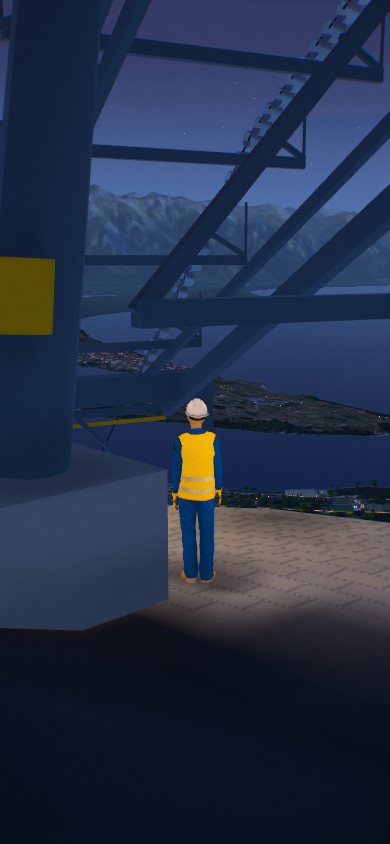
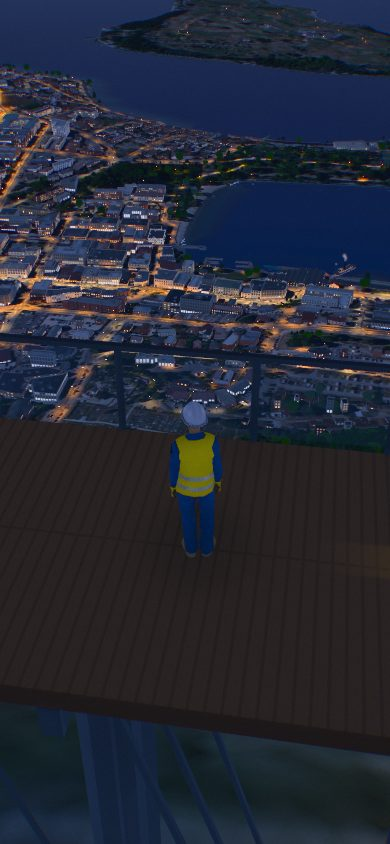
Stills for the deck and its lift, the Earnslaw's crossing and Walter Peak, and the alpine fixes
Desktop and phone, day, dusk and night, from tools/game_shot.js and tools/reef_shot.js on llvmpipe; the alpine fixes before and after.

diff --git a/docs/cities/queenstown.md b/docs/cities/queenstown.md
@@ -18,7 +18,7 @@
 | **The Skyline Gondola and its towers** | **The Earnslaw (Blender)** |
 | ![](../images/queenstown/gondola.jpg) | ![](../images/vehicles/ferry_steamer.jpg) |
 
-Phone (390 × 844), from the game's start on the luge track under the gondola's big portal: day, dusk, night.
+Phone (390 × 844), from the game's start on the Skyline deck: day, dusk, night.
 
 | Day | Dusk | Night |
 |---|---|---|
@@ -63,6 +63,12 @@ Games looked at for the arrival, for their design only: Microsoft Flight Simulat
 approach into Queenstown sets the town in its mountains. The vista points of open-world games such
 as Assassin's Creed and Ghost of Tsushima start the player where the whole map can be read.
 Nothing was taken from either but that idea.
+
+| The deck, day | Dusk | Night |
+|---|---|---|
+| ![](../images/queenstown/deck-day.jpg) | ![](../images/queenstown/deck-dusk.jpg) | ![](../images/queenstown/deck-night.jpg) |
+| **The glass lift from the luge track, day** | **Dusk** | **Night** |
+| ![](../images/queenstown/lift-day.jpg) | ![](../images/queenstown/lift-dusk.jpg) | ![](../images/queenstown/lift-night.jpg) |
 
 ## 2. The data
 
@@ -253,6 +259,17 @@ about 45 minutes each way (RealNZ). The wharf is 13 km from the town, well past 
   oriented rectangle. The roofs' colours are the photograph's; the walls' colour and the heights are judged
   (the homestead's eaves at 3.2 m and ridge at 7 m), as no survey covers them.
 - **The walk.** Callum's lake quest sails there, walks up to the Colonel's Homestead and sails back.
+
+| The crossing at dusk | At night | Walter Peak at night |
+|---|---|---|
+| ![](../images/queenstown/earnslaw-dusk.jpg) | ![](../images/queenstown/earnslaw-night.jpg) | ![](../images/queenstown/walter-night.jpg) |
+
+Phone (390 × 844): the crossing and Walter Peak, day, dusk and night.
+
+| | Day | Dusk | Night |
+|---|---|---|---|
+| The crossing | ![](../images/queenstown/phone-earnslaw-day.jpg) | ![](../images/queenstown/phone-earnslaw-dusk.jpg) | ![](../images/queenstown/phone-earnslaw-night.jpg) |
+| Walter Peak | ![](../images/queenstown/phone-walter-day.jpg) | ![](../images/queenstown/phone-walter-dusk.jpg) | ![](../images/queenstown/phone-walter-night.jpg) |
 
 ## 4. Queenstown on Foot
 

diff --git a/docs/cities/lake-pukaki.md b/docs/cities/lake-pukaki.md
@@ -209,6 +209,12 @@ filling the frame and cumulus building on the Divide.
 - a daylight white balance, as a landscape photographer sets one: the overall cast of sun and sky together is taken out
   of the land (a warm sun and a blue sky left the tussock sage). It fades out toward the golden hour, whose warmth stays.
 
+| The scene's sun light in a hill's shadow at 19:50, before | After |
+|---|---|
+| ![](../images/lake-pukaki/shadow-before.jpg) | ![](../images/lake-pukaki/shadow-after.jpg) |
+| **Facing a low sun at the visitor centre, before** | **After: the verge's tussock and lupins lit through** |
+| ![](../images/lake-pukaki/tussock-before.jpg) | ![](../images/lake-pukaki/tussock-after.jpg) |
+
 **The ground's colour** (`web/reef/alpine/terrain.js`):
 - the imagery is printed for a screen, so pale ground comes out near a linear 0.45 where dry tussock and gravel reflect
   0.25 to 0.3. An albedo knee (`ALB_KNEE`) eases brightness down and keeps the hue; snow is set on its own;

diff --git a/docs/cities/lake-tekapo.md b/docs/cities/lake-tekapo.md
@@ -139,6 +139,10 @@ detail_township.webp`):
   model and material, in traffic.js's colours. About seven stalls in ten have a car by day, half in the shoulder
   hours and a third overnight (a judgement). They stand over the cars still printed in the photograph and give the
   car parks life. `?parked=0` leaves them out.
+
+  | The lakefront car park, before | With the parked cars |
+  |---|---|
+  | ![](../images/lake-tekapo/parked-before.jpg) | ![](../images/lake-tekapo/parked-after.jpg) |
 - **Printed shadows:** within 10 m of a building, deep grey shadows on open ground (under half the brightness of the
   ground round them, low in saturation, off the road) are brightened part of the way toward that ground. It is mild on
   purpose: a stronger lift took out dark roofs, hedges and garden beds with them.
